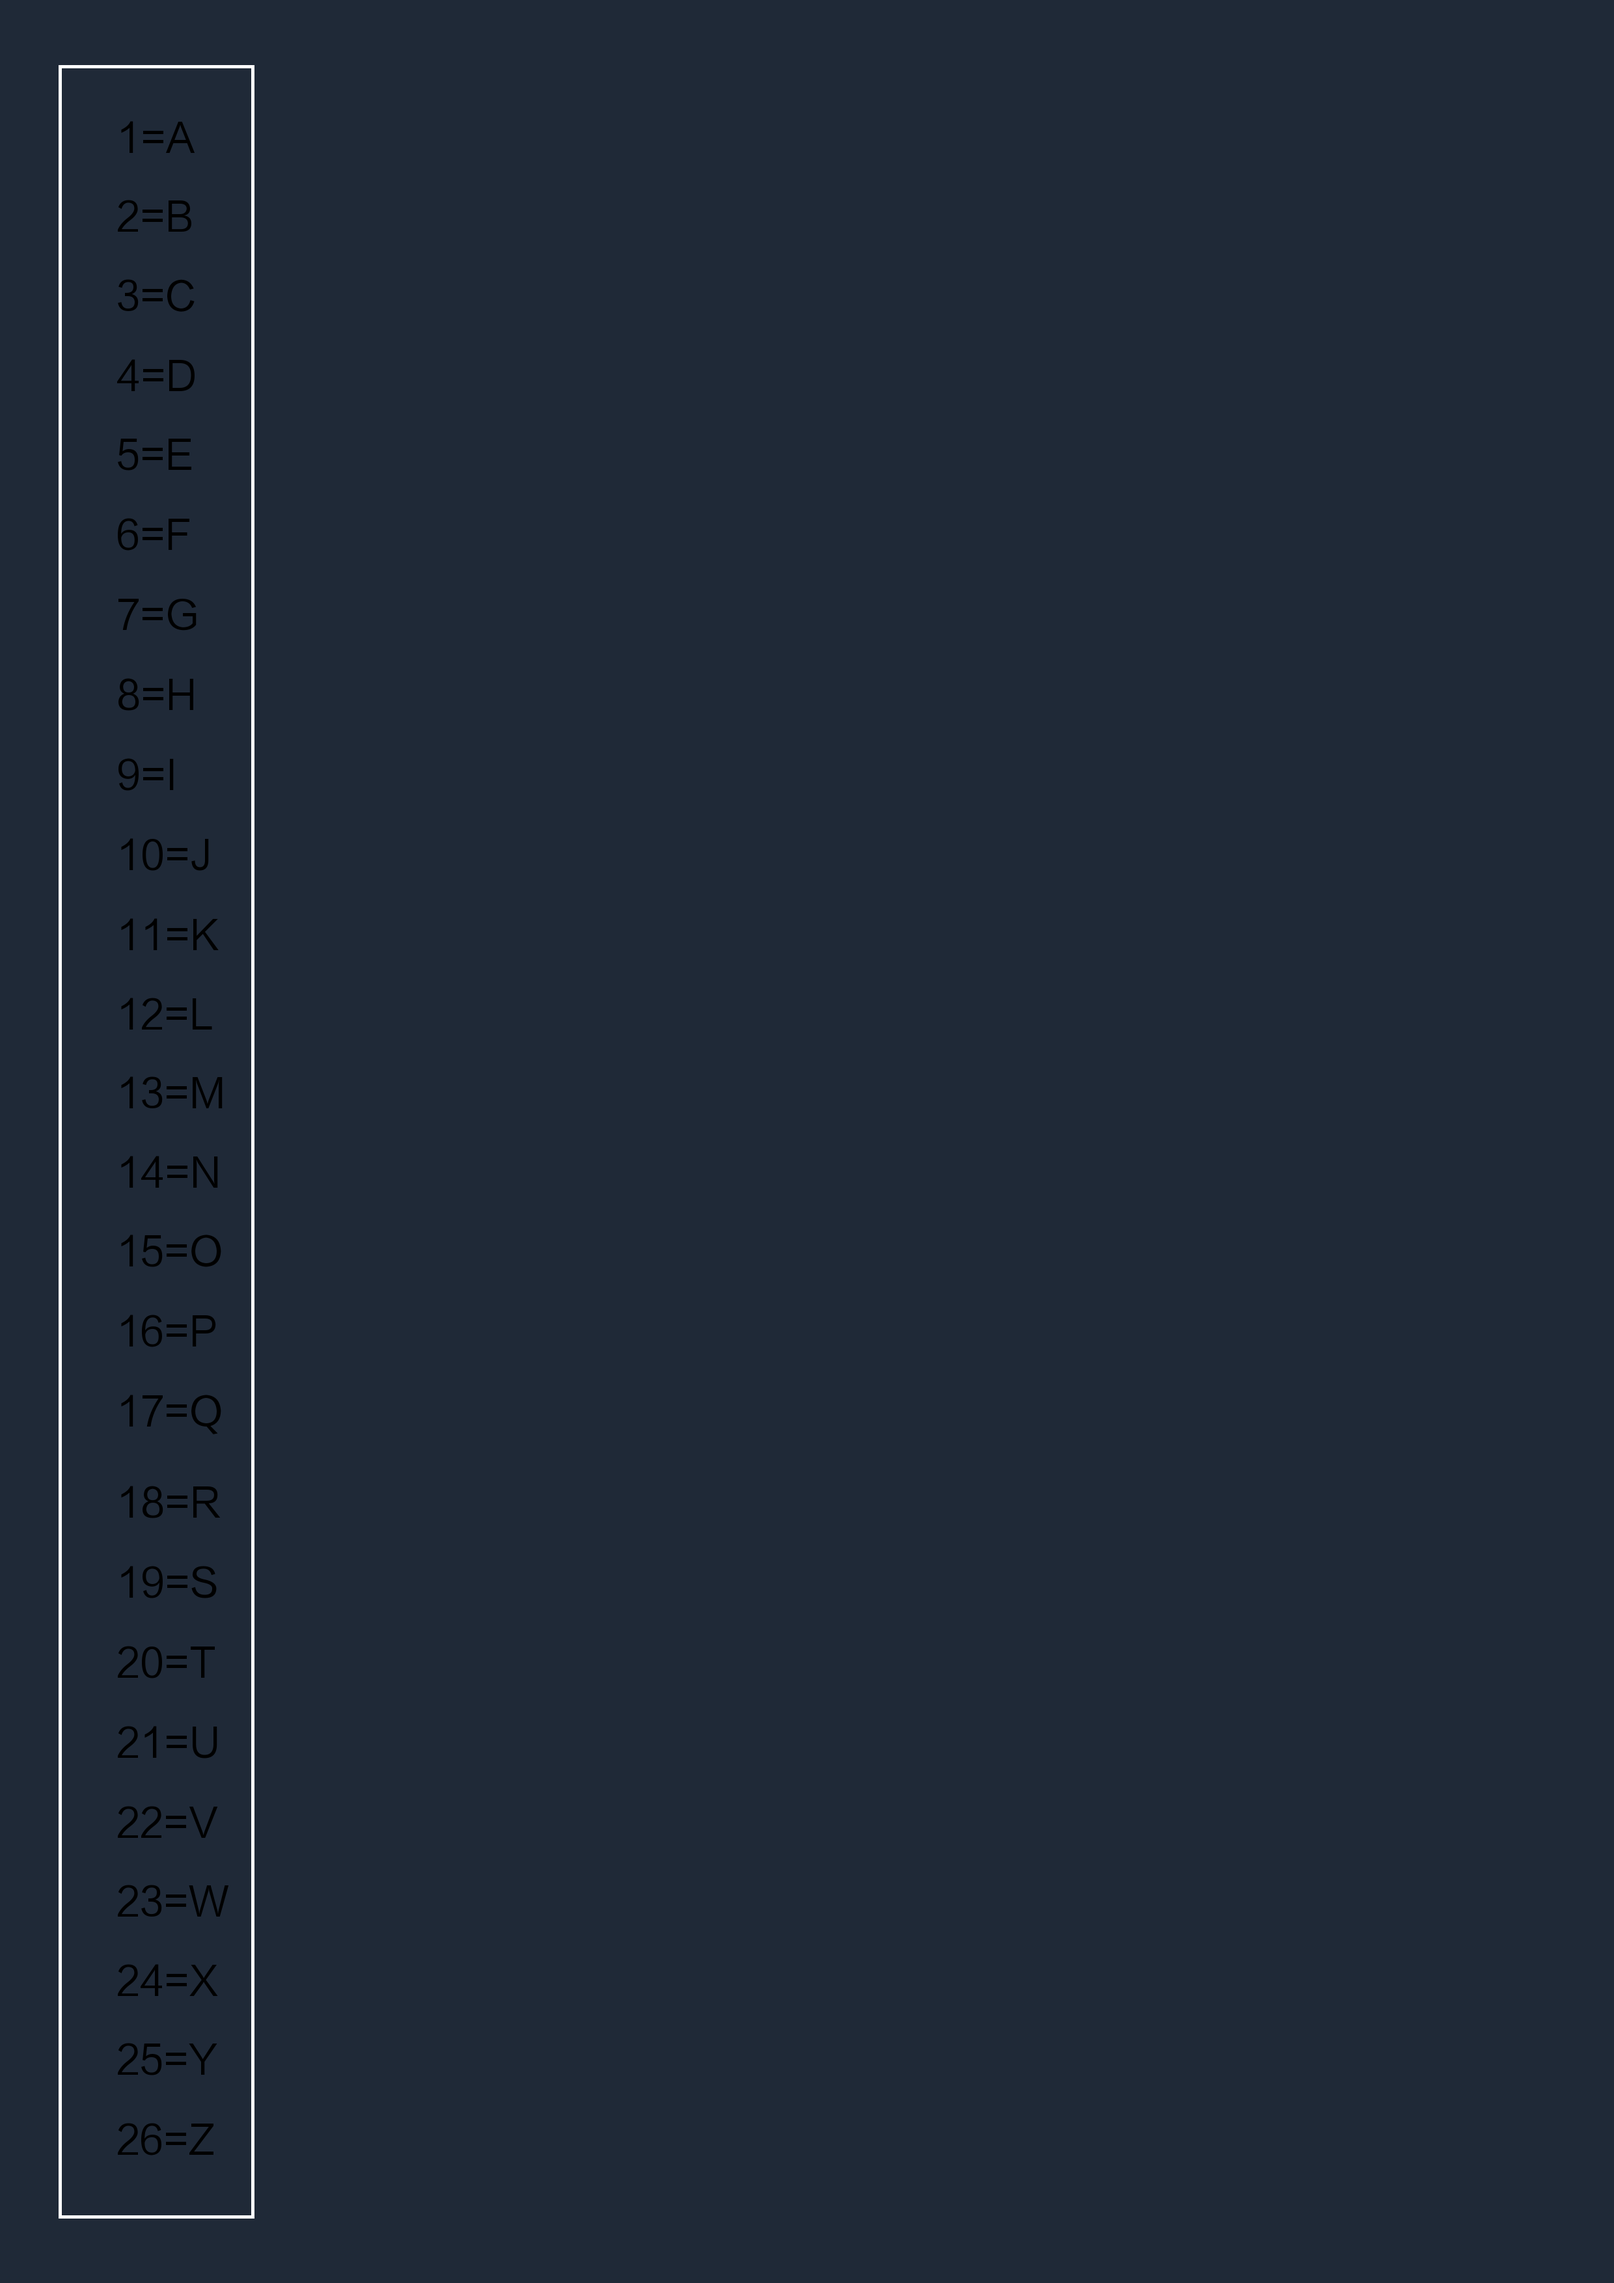
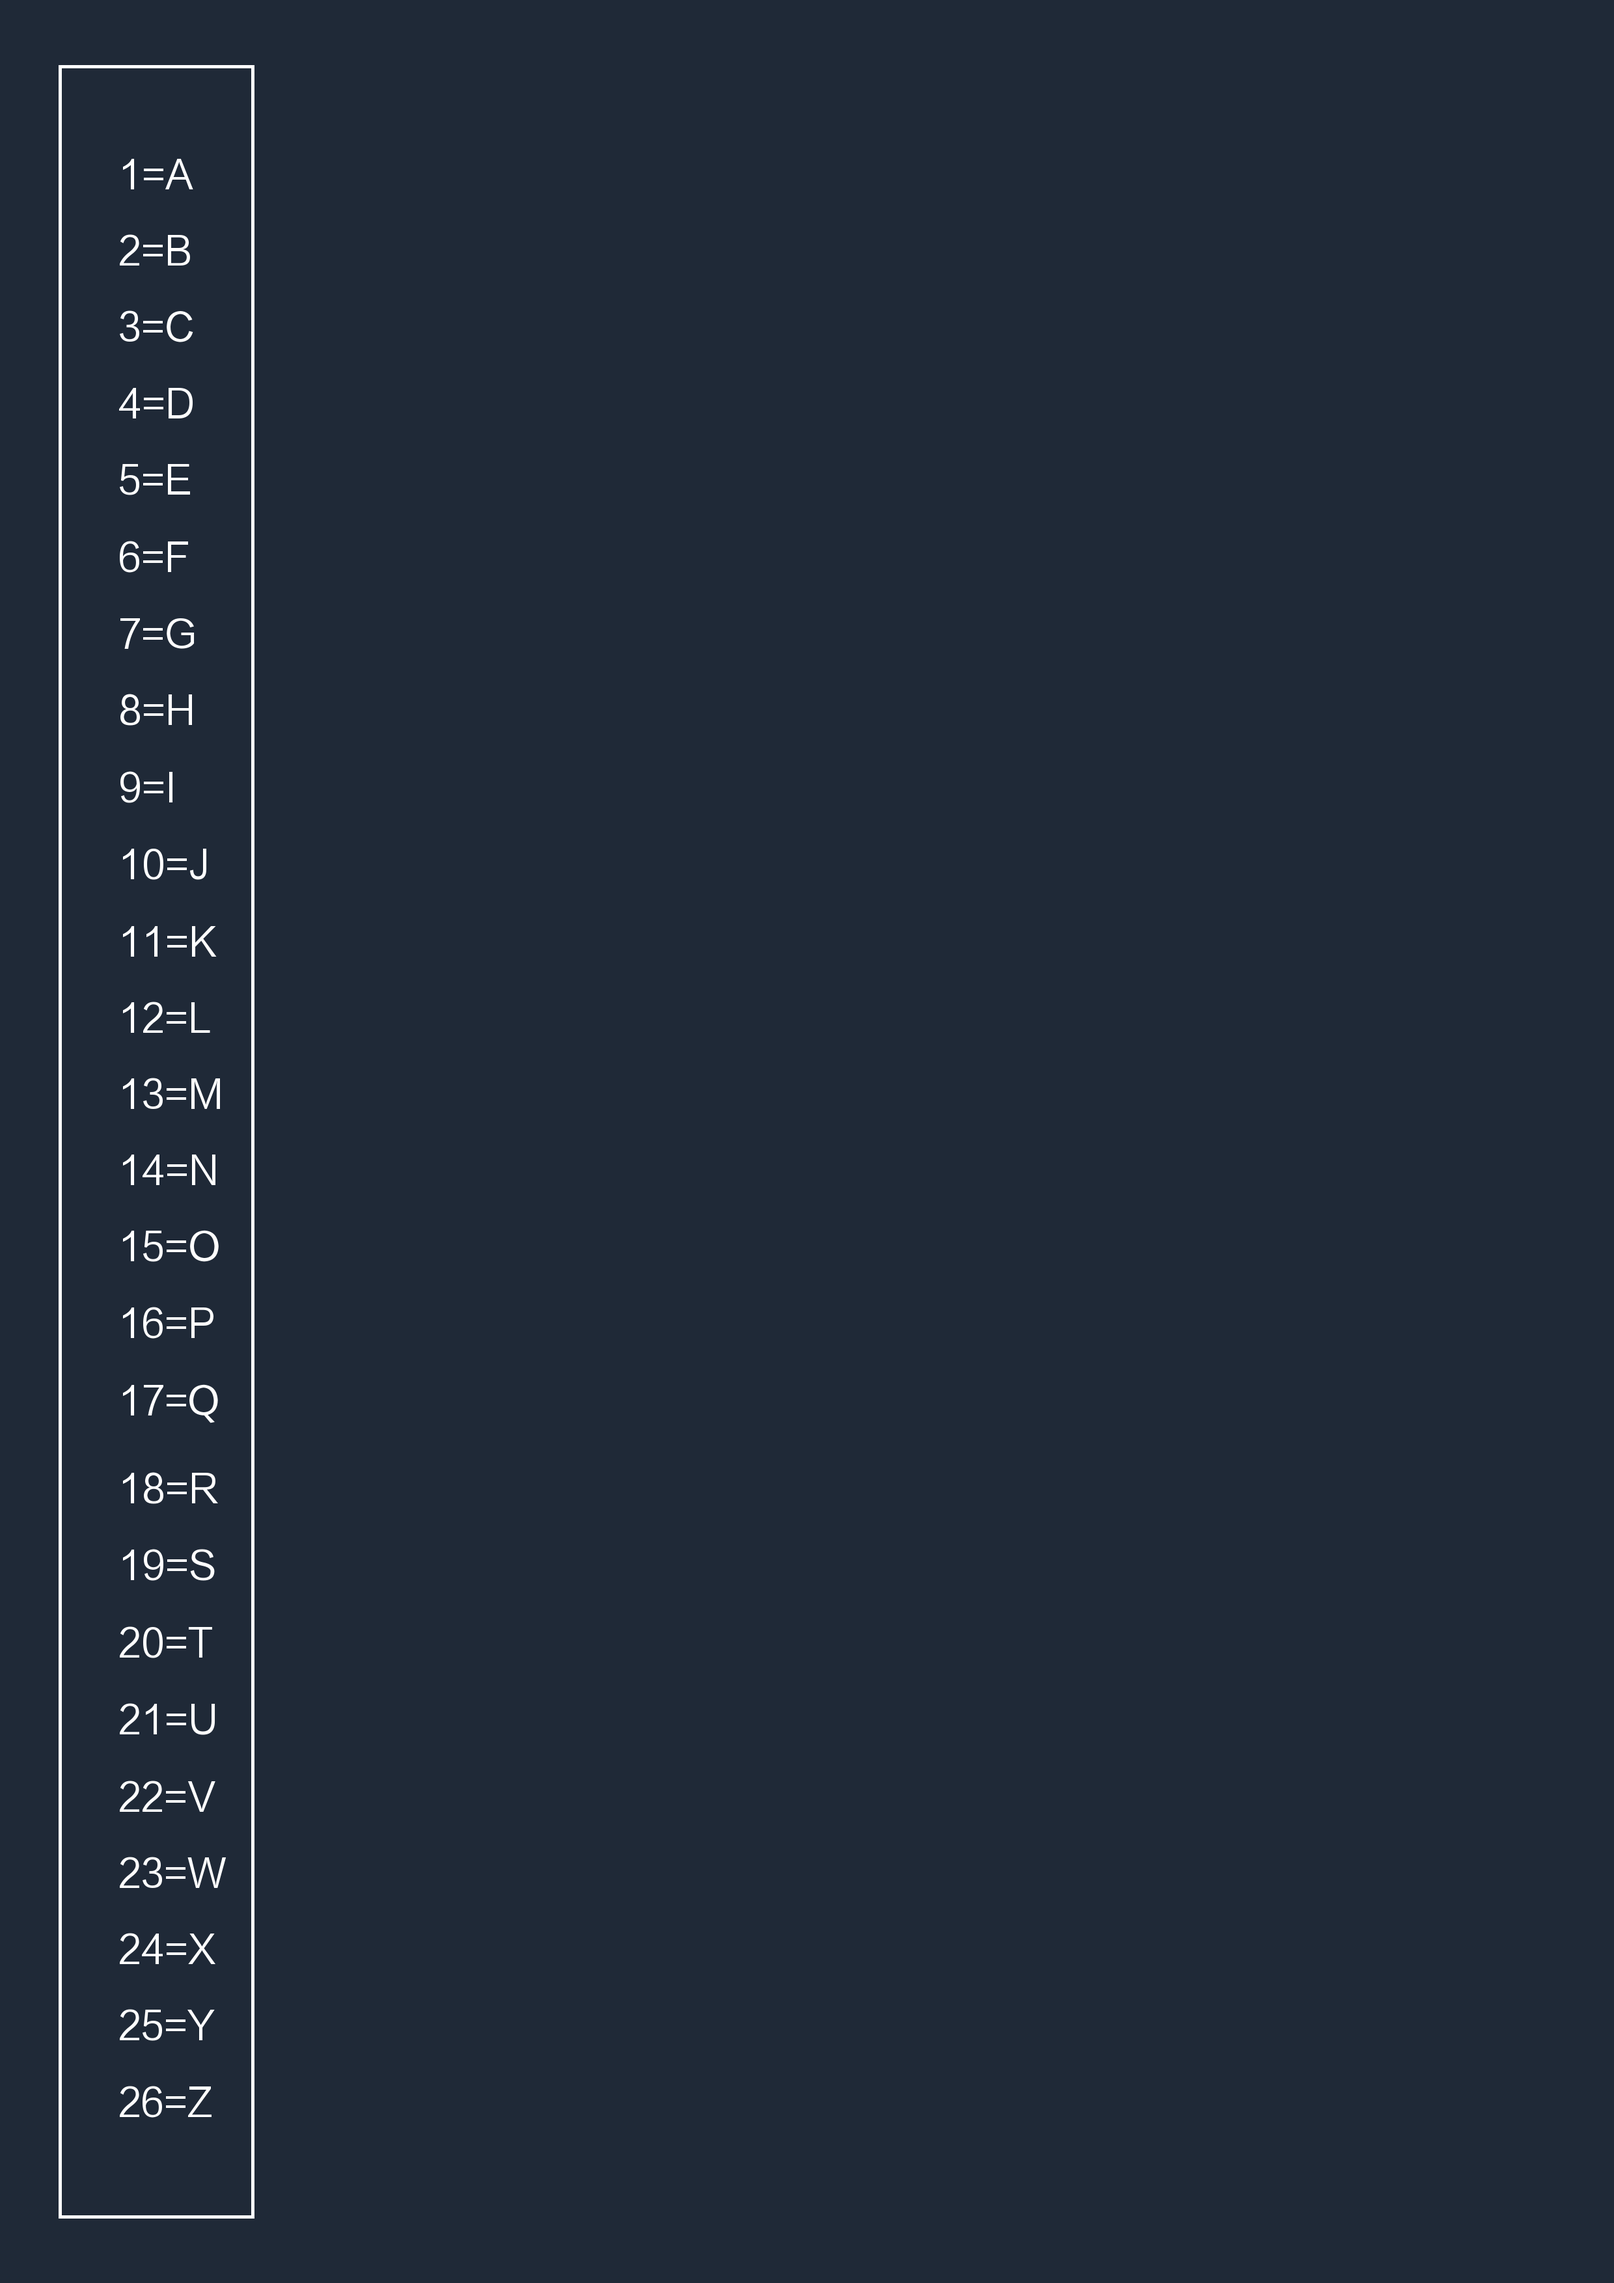
修改

Changed region(s): [[0.0621, 0.6525, 0.1552, 0.9322], [0.0621, 0.0621, 0.1242, 0.3729], [0.0621, 0.3729, 0.1552, 0.6214]]

diff --git a/main.py b/main.py
@@ -25,7 +25,7 @@ draw.rectangle(
 )
 
 # 在矩形框内绘制文字
-font_size = 60
+font_size = 58
 font = ImageFont.truetype("arial.ttf", font_size)
 
 # 定义文字内容
@@ -73,10 +73,13 @@ total_text_height = sum(draw.textbbox((0, 0), line, font=font)[3] * line_height 
 # 计算 start_y，考虑矩形高度
 start_y = rectangle_y + (rectangle_height - total_text_height) // 2  # 上下居中
 
+# 修改文字颜色为黑色
+text_color = (255, 255, 255)
+
 # 逐行绘制文字
 for line in lines:
     text_width, text_height = draw.textbbox((0, 0), line, font=font)[2], draw.textbbox((0, 0), line, font=font)[3]
-    draw.text((start_x, start_y), line, font=font, fill=(0, 0, 0))
+    draw.text((start_x, start_y), line, font=font, fill=text_color)
     start_y += text_height * line_height  # 使用text_height和line_height确保文字行间距正确
 
 # 保存图片
